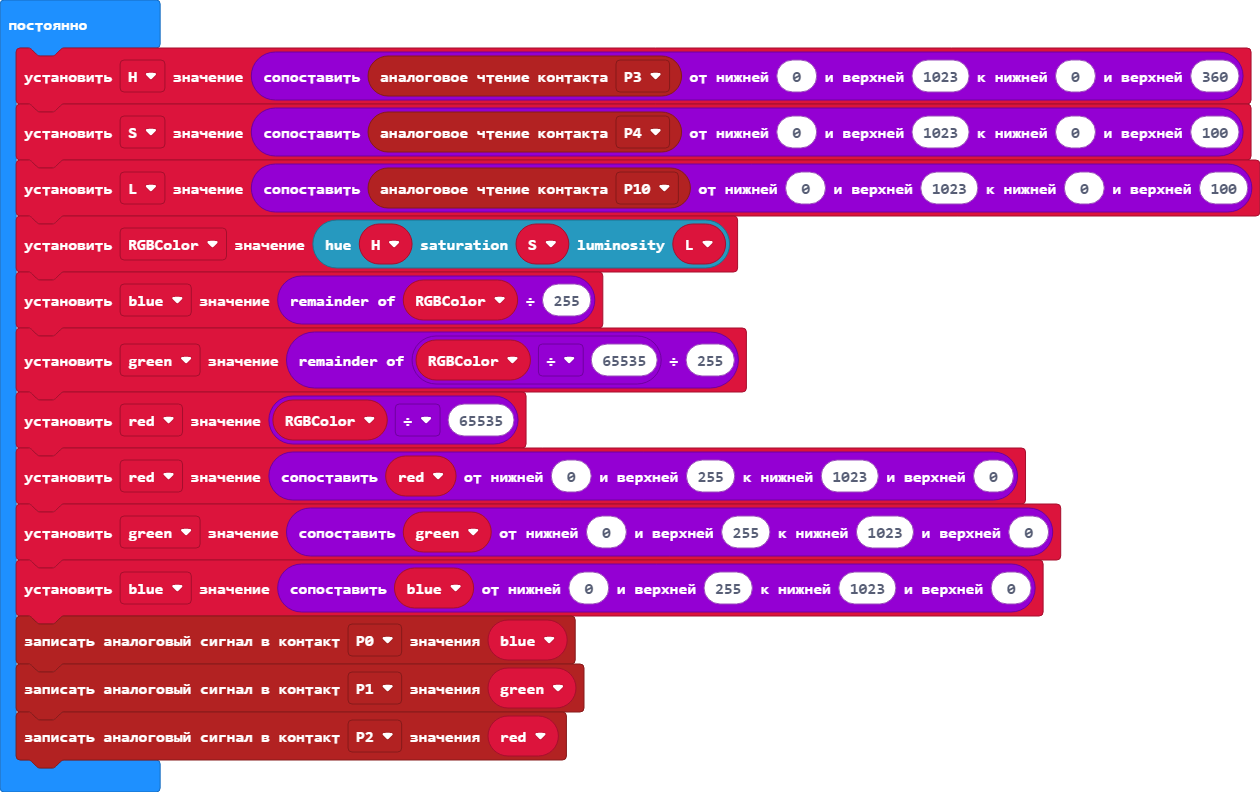
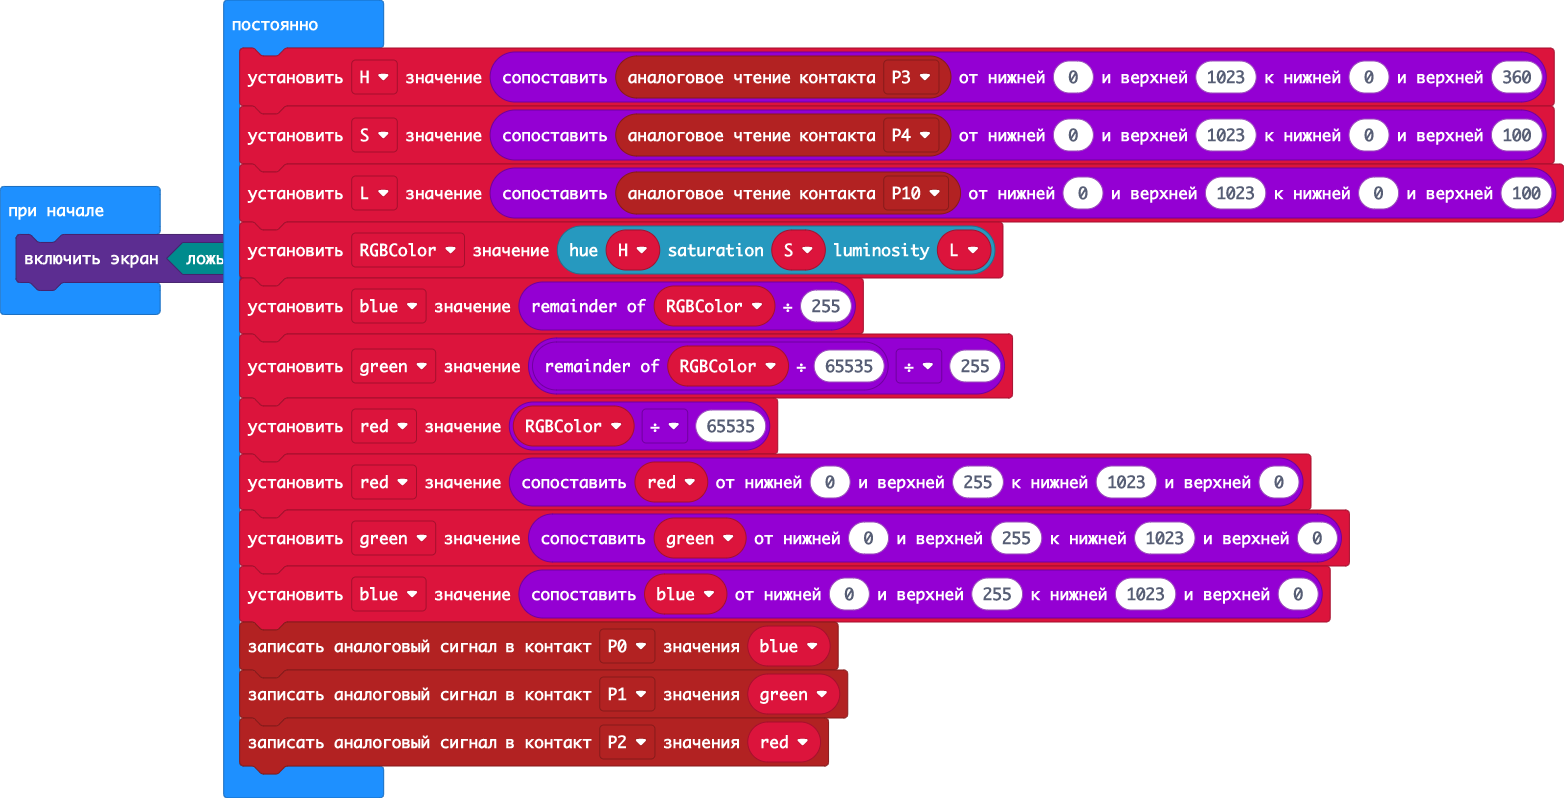
fix

diff --git a/main.ts b/main.ts
@@ -1,17 +1,18 @@
-let H = 0
-let S = 0
-let L = 0
-let RGBColor = 0
-let blue = 0
-let green = 0
 let red = 0
+let green = 0
+let blue = 0
+let RGBColor = 0
+let L = 0
+let S = 0
+let H = 0
+led.enable(false)
 basic.forever(function () {
     H = Math.map(pins.analogReadPin(AnalogPin.P3), 0, 1023, 0, 360)
     S = Math.map(pins.analogReadPin(AnalogPin.P4), 0, 1023, 0, 100)
     L = Math.map(pins.analogReadPin(AnalogPin.P10), 0, 1023, 0, 100)
     RGBColor = neopixel.hsl(H, S, L)
     blue = RGBColor % 255
-    green = RGBColor / 65535 % 255
+    green = RGBColor % 65535 / 255
     red = RGBColor / 65535
     red = Math.map(red, 0, 255, 1023, 0)
     green = Math.map(green, 0, 255, 1023, 0)
